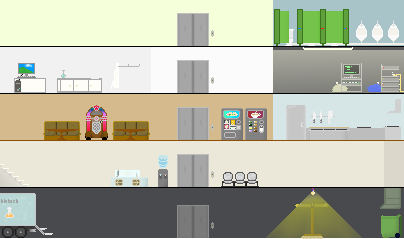
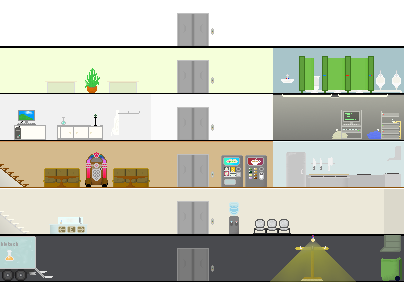
Corrected background display according to floor number

diff --git a/ParapluieBulgare/Code/Floor.cs b/ParapluieBulgare/Code/Floor.cs
@@ -13,7 +13,7 @@ namespace ParapluieBulgare.Code
 {
     class Floor
     {
-        static readonly int nbFloors = 5;  
+        static readonly int nbFloors = 6;  
 
         private Texture2D texture;
         public int Number { get; set; }
@@ -74,7 +74,7 @@ namespace ParapluieBulgare.Code
             sourceRectangle.Width = texture.Width;
             sourceRectangle.Height = texture.Height / nbFloors;
             sourceRectangle.X = 0;
-            sourceRectangle.Y = Number * sourceRectangle.Height;
+            sourceRectangle.Y = (nbFloors - Number - 2) * sourceRectangle.Height;
 
 
             spriteBatch.Draw(texture, new Rectangle(-cameraX, 0, 5000, 300), sourceRectangle, Color.White);

diff --git a/ParapluieBulgare/Game1.cs b/ParapluieBulgare/Game1.cs
@@ -237,7 +237,7 @@ namespace ParapluieBulgare
                     currentFloor = floors[switchFloor];
                     elevator = false;
                     elevatorGUI = null;
-                    Console.Out.WriteLine("elevator : " + switchFloor);
+                    Console.Out.WriteLine("elevator : " + (switchFloor - 1));
                 }
             }
 
